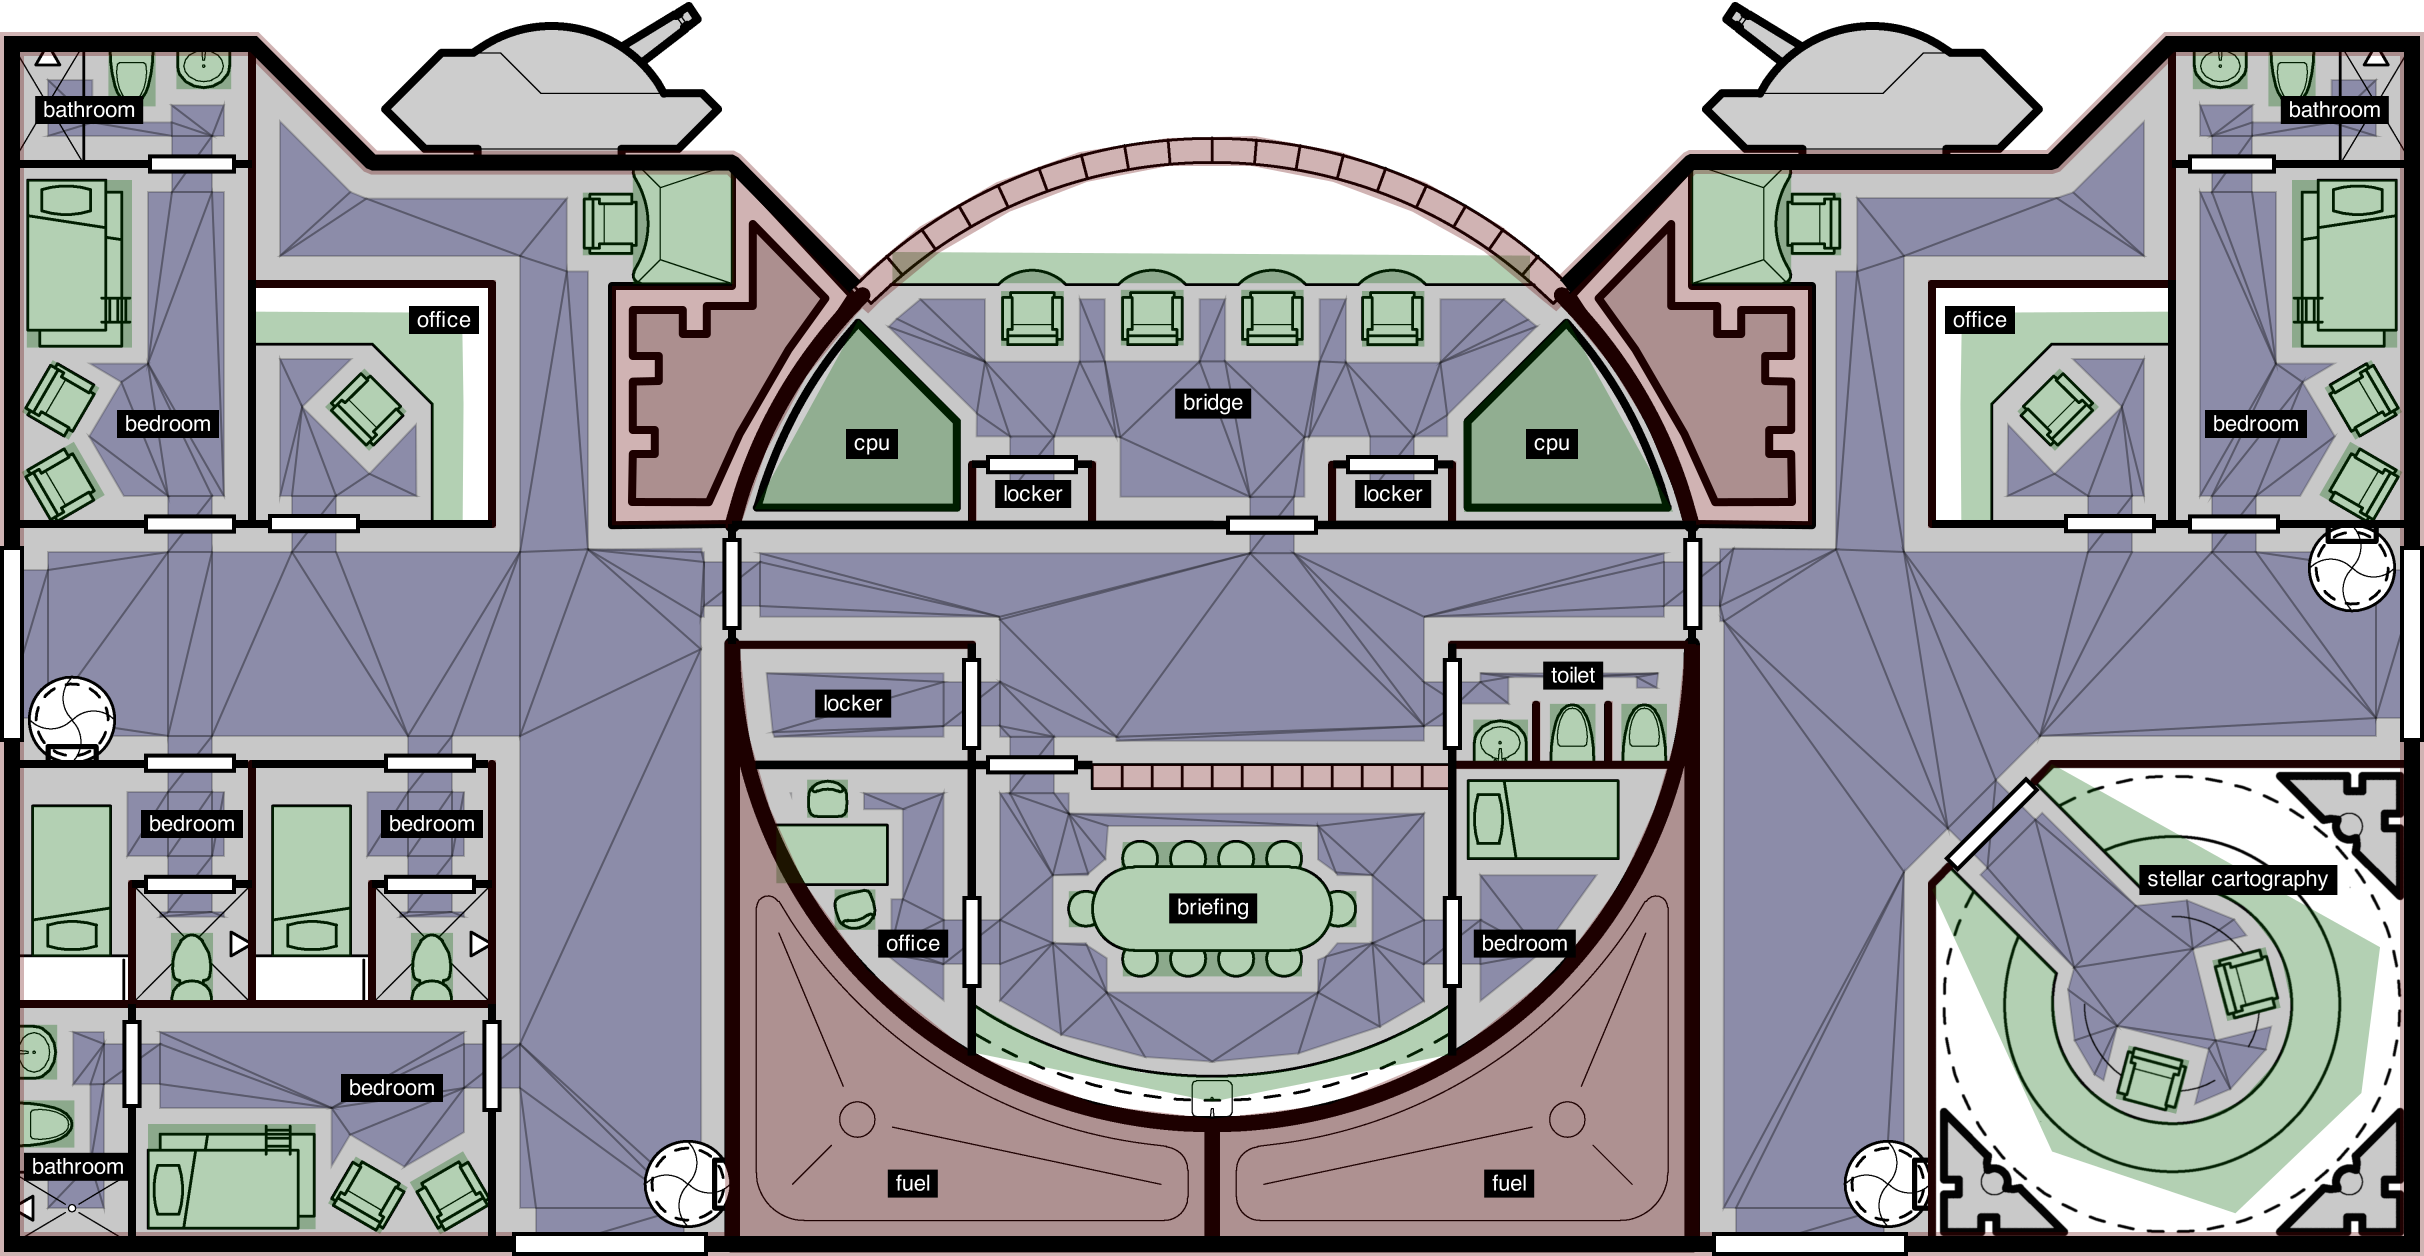
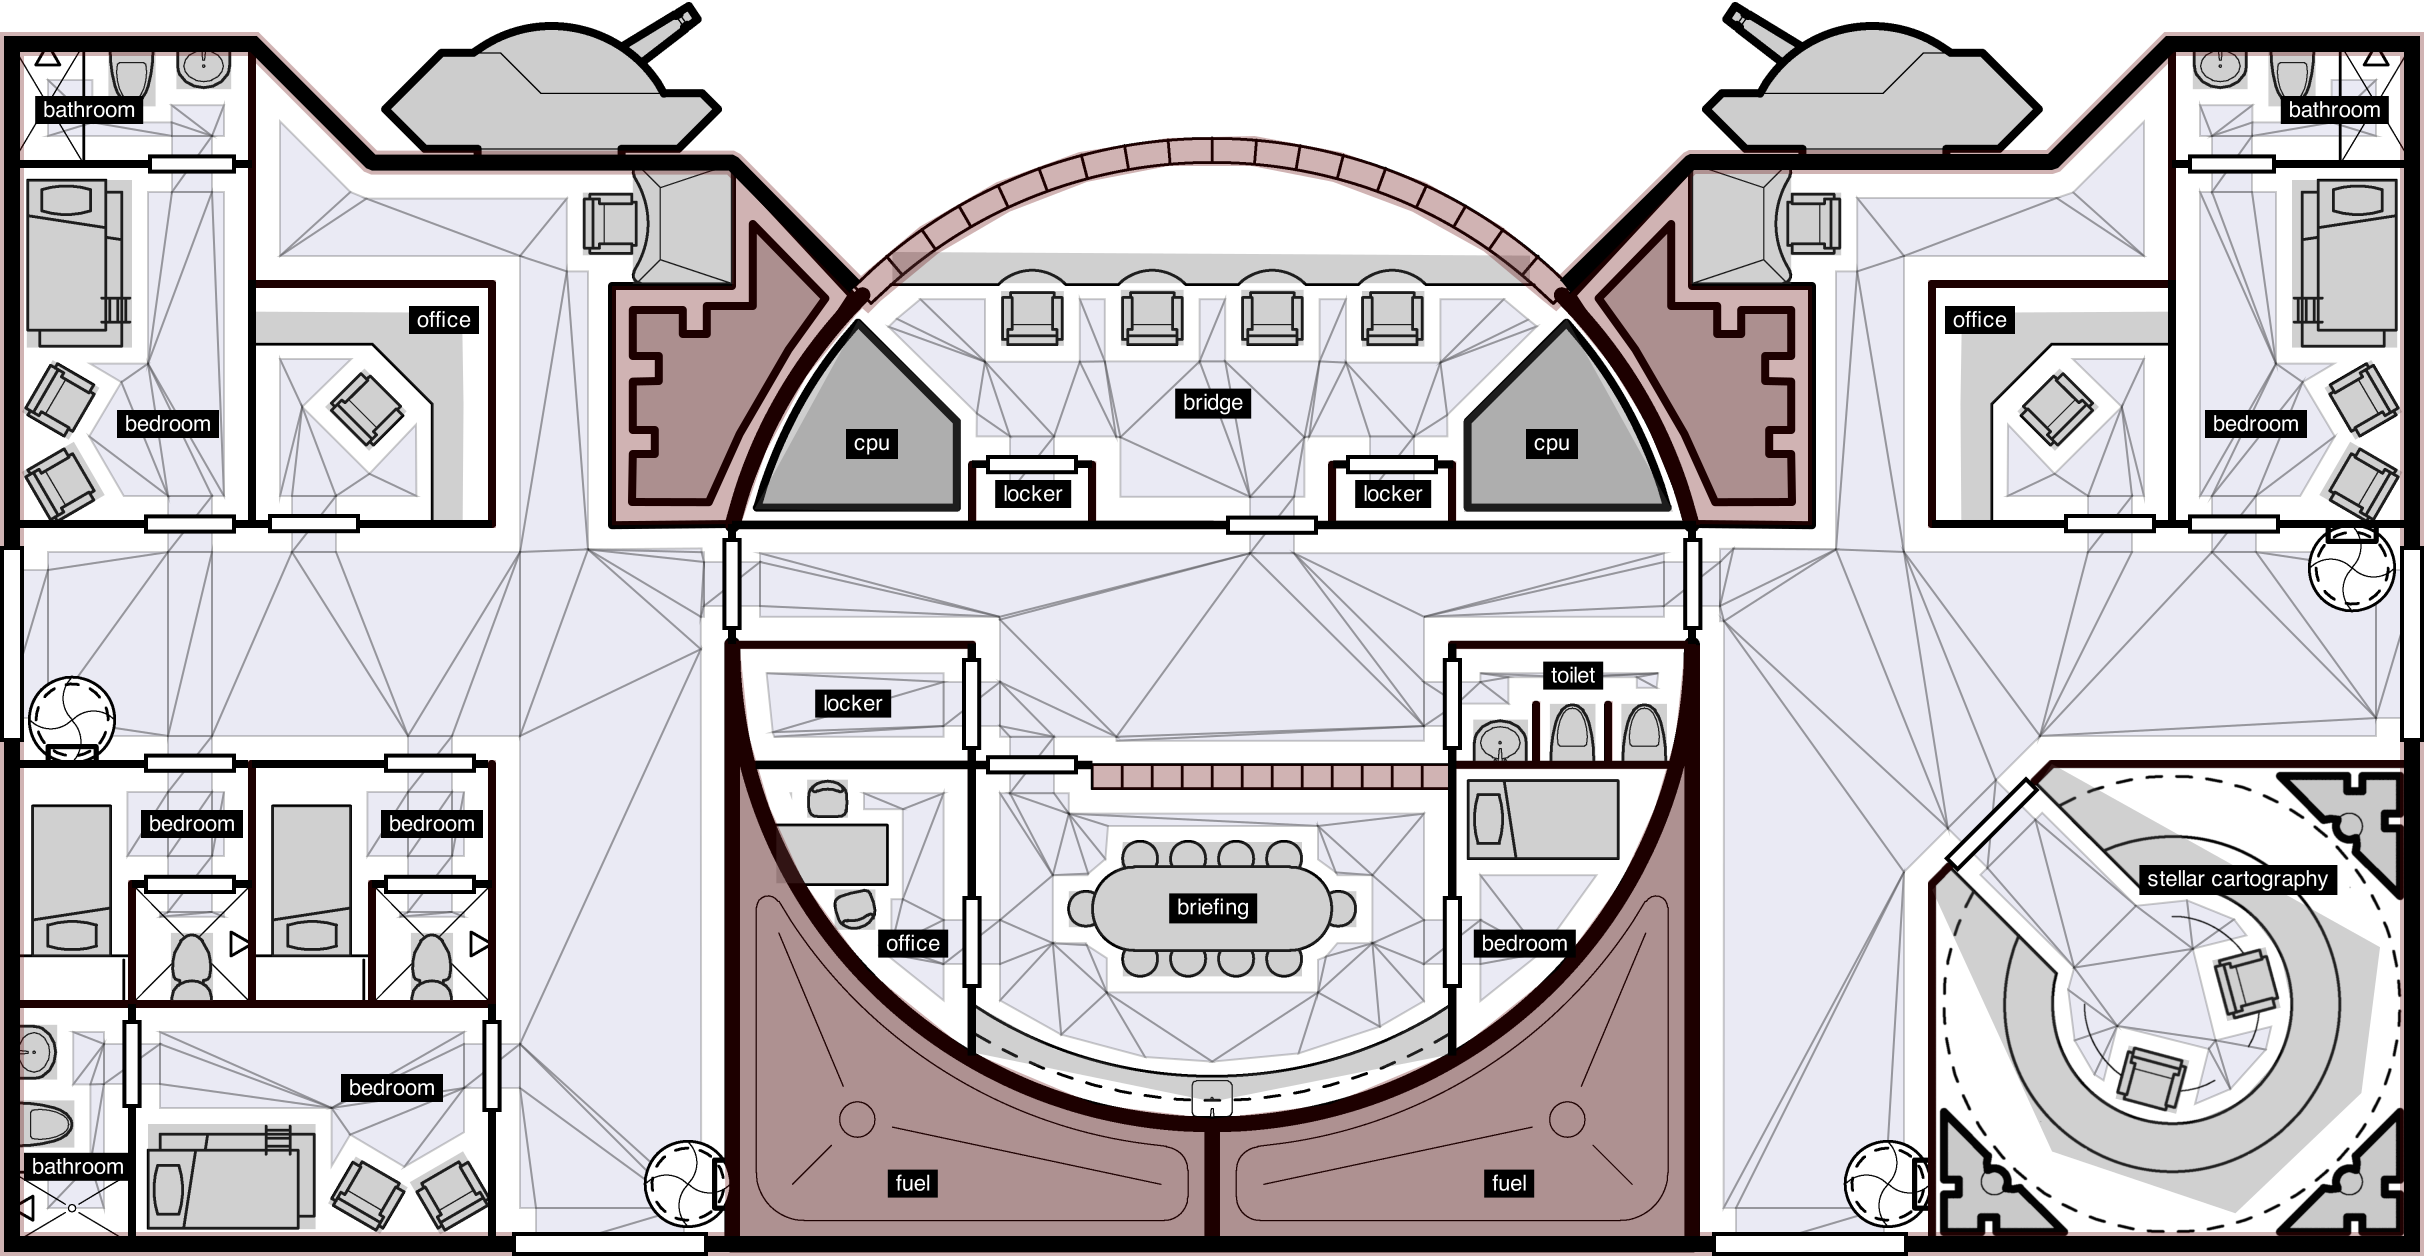
remove red/green colours

diff --git a/projects/geomorph/geomorph.render.js b/projects/geomorph/geomorph.render.js
@@ -21,9 +21,11 @@ export async function renderGeomorph(
     navTris = false,
     doors = false,
     labels = false,
-    floorColor = 'rgba(200, 200, 200, 1)',
-    navColor = 'rgba(0, 0, 100, 0.3)',
-    obsColor = 'rgba(0, 100, 0, 0.3)',
+    floorColor = 'rgba(255, 255, 255, 1)',
+    navColor = 'rgba(150, 150, 200, 0.2)',
+    navStroke = 'rgba(0, 0, 0, 0.2)',
+    obsColor = 'rgba(100, 100, 100, 0.3)',
+    wallColor = 'rgba(100, 0, 0, 0.3)',
   },
 ) {
   const hullSym = lookup[layout.items[0].key];
@@ -47,7 +49,7 @@ export async function renderGeomorph(
   ctxt.fillStyle = navColor;
   fillPolygon(ctxt, layout.navPoly);
   if (navTris) {
-    ctxt.strokeStyle = 'rgba(0, 0, 0, 0.1)';
+    ctxt.strokeStyle = navStroke;
     const decomps = layout.navPoly.flatMap(x => x.qualityTriangulate());
     decomps.forEach(decomp => drawTriangulation(ctxt, decomp));
   }
@@ -89,7 +91,7 @@ export async function renderGeomorph(
 
   ctxt.fillStyle = obsColor;
   obsBounds && fillPolygon(ctxt, obstacles);
-  ctxt.fillStyle = 'rgba(100, 0, 0, 0.3)';
+  ctxt.fillStyle = wallColor;
   wallBounds && fillPolygon(ctxt, walls);
   ctxt.fillStyle = 'rgba(0, 0, 0, 1)';
   fillPolygon(ctxt, layout.hullTop);

diff --git a/projects/geomorph/geomorph.d.ts b/projects/geomorph/geomorph.d.ts
@@ -10,9 +10,12 @@ declare namespace Geomorph {
     navTris?: boolean;
     doors?: boolean;
     labels?: boolean;
+
     floorColor?: string;
     navColor?: string;
+    navStroke?: string;
     obsColor?: string;
+    wallColor?: string;
   }
 
   /** Generated via `yarn render-layout` */
